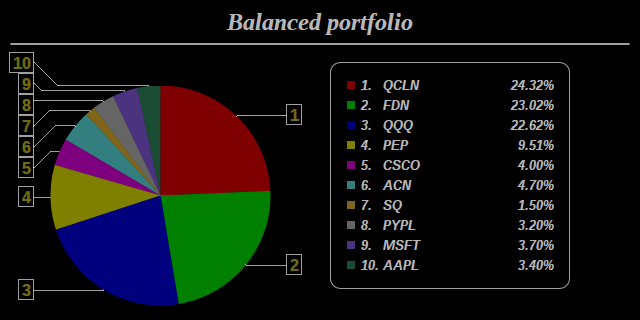
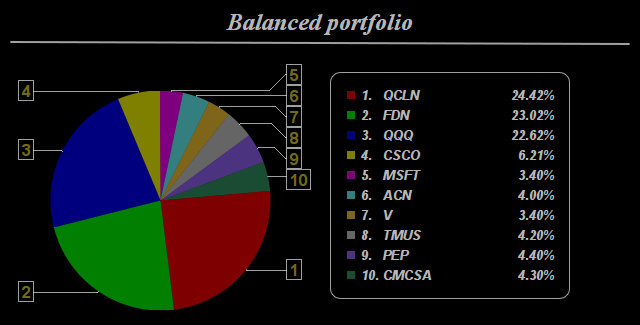
вынес настрки пирогов

diff --git a/charter/finance2.py b/charter/finance2.py
@@ -181,8 +181,9 @@ def create_portfolio_donut(portfolio_data=None, title="", filename="pie"):
 
     title = pie_chart.addTitle(title, "timesbi.ttf", 18, P_TITLE_FONT_COLOR)
     title.setMargin2(0, 0, 8, 8)
-    pie_chart.addLine(10, title.getHeight(), pie_chart.getWidth() - 11, title.getHeight(), P_TITLE_FONT_COLOR, 2)
-    pie_chart.setDonutSize(160, 195, 110, 0)
+    pie_chart.addLine(10, title.getHeight()-2, pie_chart.getWidth() - 11, title.getHeight(), P_TITLE_FONT_COLOR, 2)
+    pie_chart.setDonutSize(160, 200, 110, 0)
+    pie_chart.setStartAngle(85)
     # pie_chart.setTransparentColor(20)
     pie_chart.setData(data, labels)
     # pie_chart.setSectorStyle(RingShading)
@@ -192,7 +193,7 @@ def create_portfolio_donut(portfolio_data=None, title="", filename="pie"):
     pie_chart.setLabelFormat("<*font=arialbd.ttf,size=13,color=%s*>{={sector}+1}" % 0xffffff)
     pie_chart.setLabelStyle("arialbd.ttf", 10).setBackground(Transparent, P_AXIS_FONT_COLOR)
     pie_chart.setLineColor(Transparent, P_AXIS_FONT_COLOR)
-    legend_box = pie_chart.addLegend(330, 175, 1, "arialbi.ttf", 10)
+    legend_box = pie_chart.addLegend(330, 185, 1, "arialbi.ttf", 10)
     legend_box.setAlignment(Left)
     legend_box.setBackground(Transparent, P_AXIS_FONT_COLOR)
     legend_box.setFontColor(P_AXIS_FONT_COLOR)
